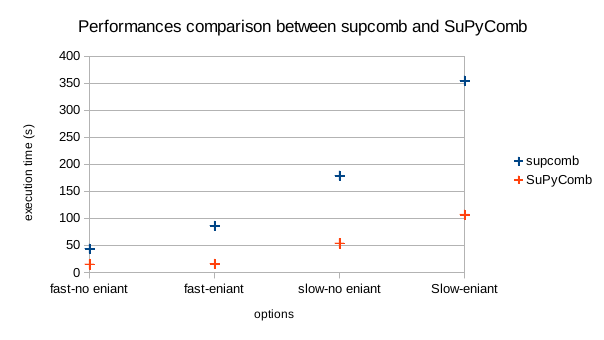
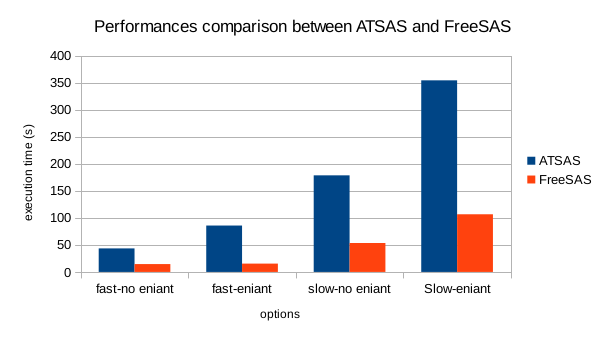
Last corrections from Jerome + changes in figures

diff --git a/bonamis_report.tex b/bonamis_report.tex
@@ -64,7 +64,8 @@
 I would like to thank my supervisor J\'er\^ome Kieffer for his help 
 and his teaching all along my traineeship at the ESRF, my university 
 tutor Emeline Dudognon for the time she spend to help me for my 
-traineeship, Claudio Ferrero, head of ESRF Data Analysis Unit, for the 
+traineeship, the BM29 staff and especially Martha Brennich and Adam 
+Round, Claudio Ferrero, head of ESRF Data Analysis Unit, for the 
 revision of this report, Pierre Paleo, Thomas Vincent and Frederic 
 Sulzmann for the numerous pieces of advice they gave me.
 
@@ -145,7 +146,7 @@ The global data-analysis process can be divided in four steps:
  \item azimuthal integration of the image
  \item background correction (scattering from the sample buffer)
  \item basic analysis of the scattering curves
- \item ab initio modeling
+ \item \textit{ab initio} modeling
 \end{itemize}
 
 \begin{figure}
@@ -176,14 +177,14 @@ from the \textsc{atsas} package \cite{atsas}.
 The EDNA analysis pipeline generates automatically Guinier and Kratky
 plots for visual analysis of the scattering signal.\\
 
-The fourth step of the data analysis is the ab initio modeling, 
+The fourth step of the data analysis is the \textit{ab initio} modeling, 
 presented in the following section, which is the core of the subject.
 
-\section{Ab initio modeling}
+\section{\textit{Ab initio} modeling}
 \label{modeling}                           %flag pour citer cette section
 
-Ab initio modeling aims at building a low-resolution 3-D model of the 
-macromolecule of interest. 
+\textit{Ab initio} modeling aims at building a low-resolution 3-D 
+model of the macromolecule of interest. 
 BM29 staff uses for this other tools from the \textsc{atsas} package 
 as follows.\\
 
@@ -239,8 +240,9 @@ integration into the pipeline, a Python library could be advantageous.
 \item programs from this package are closed source and 
 changing from version to version add difficulties to the process of 
 their integration into the pipeline. 
-\item the execution time of these programs causes the ab initio 
-modeling to be the bottleneck of the BM29 pipeline. 
+\item the execution time of these programs causes the 
+  \textit{ab initio} modeling to be the bottleneck of the BM29 
+  pipeline. 
 \item sometimes the whole EDNA pipeline needs to be aborted 
 due to \textit{dammin}, not returning results after half an hour.
 \end{enumerate}
@@ -274,13 +276,14 @@ We will use this protein all along the report for examples,
 presentation of results and code performances. 
 This protein is very common in biology and simple to study. 
 In particular, it is present in egg white. 
-The scattering curve of lysozyme comes from \textsc{atsas}, which uses 
-it for test purposes (figure~\ref{fgr:saxscurve}).
+The scattering curve of lysozyme comes from the \textsc{atsas} test 
+suite, which uses it for test purposes (figure~\ref{fgr:saxscurve}).
 
 \begin{figure}
 \centering
-\includegraphics[scale=0.45]{saxscurve.png}
-\caption{SAXS curve of the lysozyme protein provided in \textsc{atsas}}
+\includegraphics[scale=0.40]{saxscurve.png}
+\caption{SAXS curve of the lysozyme protein provided by the 
+  \textsc{atsas} test suite}
 \label{fgr:saxscurve}
 \end{figure}
 
@@ -326,14 +329,12 @@ of the model on the experimental data ($\chi^2$ and $R$-value).
 These numbers represent the quality of the model and are calculated 
 using the difference between the actual SAXS curve and the simulated 
 one. 
-These quality factors are used used to reject models badly reproducing 
+These quality factors are used to reject models badly reproducing 
 experimental data.
 
-The second piece of information to retrieve are the dummy atoms 
-coordinates. 
-These are not actual atoms, but they indicate that there is some 
-material (the macromolecule) in their positions, and where there are 
-no dummy atoms, it is solvent. 
+The dummy atoms are not actual atoms, but they indicate that there is 
+some material (the macromolecule) in their positions, and where there 
+are no dummy atoms, it is solvent. 
 Typical DAM used in this project had 500 dummy atoms (order of 
 magnitude). 
 The parser written was dedicated to the following task: read the PDB 
@@ -442,7 +443,7 @@ z_{k}^0 = \frac{1}{N_{k}} \cdot \sum\limits_{i=1}^{N_{k}} z_{ik}
 \]\\
 The canonical translation to send the model $S_{k}$ to the coordinates' 
 origin is calculated with $(-x_{k}^0,\ -y_{k}^0,\ -z_{k}^0)$ vector to 
-obtain the $4 \time 4$ canonical translation matrix of $S_{k}$: 
+obtain the $4 \times 4$ canonical translation matrix of $S_{k}$: 
 $T_{k}^0$.
 
 With both models translated to their center of mass, the NSD between 
@@ -485,7 +486,7 @@ we have, with $\delta_{ij}$ the Kronecker delta,
 \]\\
 It appears that the $I_{k}$ tensor is symmetric real, hence we know 
 that it can be diagonalized; we can compute its three eigenvalues 
-$\lambda_{k1} \geq \lambda_{k2} \geq \lambda_{k3}$ and the three 
+$\lambda_{k1} \leq \lambda_{k2} \leq \lambda_{k3}$ and the three 
 eigenvectors corresponding $v_{k1},\ v_{k2},\ v_{k3}$. 
 We can create a rotation matrix composed by the eigenvectors of 
 $I_{k}$, arranged in columns and sorted in increasing order of the 
@@ -493,7 +494,7 @@ associated eigenvalues.
 If this matrix is named $M_{k}$, its transposed $[M_{k}]^T$ is the 
 rotation matrix which align $S_{k}$ axes of inertia along the 
 coordinates axes \cite{supcomb}, i.e. the one we are looking for 
-($4 \time 4$ rotation matrix).
+($4 \times 4$ rotation matrix).
 
 Including the canonical rotations for each models to the process, we 
 obtain a NSD value between the two DAM of $0.60$ (before it was 
@@ -747,7 +748,9 @@ returns the two graphs presented in figure~\ref{fgr:nsd}.
 \centering
 \includegraphics[scale=0.45]{nsd.png}
 \caption{Two graphs computed by \textit{SuPyComb}, the NSD table and 
-         for each model the average NSD with all the others}
+         for each model the average NSD with all the others. The DAM 
+         called "model-XX" are respectively the DAM "dammif-XX" after 
+         their alignment.}
 \label{fgr:nsd}
 \end{figure}
 The $16 \times 16$ NSD table reports the distances between each pair 
@@ -795,7 +798,7 @@ EDNA' runs.
 The execution time of \textit{SuPyComb} is also a great advantage 
 compared to \textit{supcomb}. 
 Some tests have been performed to compare execution times with several 
-options of both programs (always with the same Lysozyme SAXS curve). 
+options of both programs (always with the same lysozyme SAXS curve). 
 Results are presented in the appendix~\ref{perfappendix}.
 
 In addition to these advantages the Python implementation of SuPyComb 
@@ -829,9 +832,9 @@ difficulties found in the integration of \textit{supcomb} into EDNA.
 Moreover, its execution speed improves the computing performance of 
 the EDNA pipeline.\\
 
-As FreeSAS has not been created only for this task the package will be 
-further developed to provide new tools able to replace other 
-problematic \textsc{atsas}' modules as \textit{dammin}.
+While SuPyComb is the first part of FreeSAS, FreeSAS aims at hosting 
+new tools able to replace some of the \textsc{atsas} programs as 
+"drop-in" replacemen, with the advantage of a very permissive license.
 
 
 \newpage                 %ne pas enlever (numerotation pour sommaire)
@@ -900,7 +903,7 @@ that it is not obvious.
 Some tests have been performed to compare in the same situations the 
 different execution times of both \textsc{atsas}' supcomb and FreeSAS' 
 SuPyComb. 
-These execution times have been computed with Scisoft12, a computer 
+These execution times have been computed on a server 
 fitted with two processors Intel(R) Xeon(R) CPU E5-2667 0 @ 2.90GHz, 
 six cores each.
 
@@ -911,10 +914,10 @@ atoms each; and with the second one, 16 models of nearly 3050 dummy
 atoms. 
 Supcomb and SuPyComb are tested with four combinations of two options: 
 \begin{itemize}
-\item fast mode - enantiomorphs not allowed
-\item fast mode - enantiomorphs allowed
-\item slow mode - enantiomorphs not allowed
-\item slow mode - enantiomorphs allowed
+\item fast mode - without enantiomorphs search
+\item fast mode - with enantiomorphs search
+\item slow mode - without enantiomorphs search
+\item slow mode - with enantiomorphs search
 \end{itemize}
 
 Results from dammif models in fast mode are presented in 
@@ -926,14 +929,16 @@ execution time, even if it is doing other thing that supcomb
 
 \begin{figure}
 \includegraphics[scale=0.8]{perfdamfast.png}
-\caption{Execution time of supcomb and SuPyComb with several option 
-  for dammif fast mode (515 dummy atoms)}
+\caption{Execution time of supcomb from \textsc{atsas} and SuPyComb 
+  from FreeSAS with several option for dammif fast mode (515 dummy 
+  atoms)}
 \label{fgr:perfdamfast}
 \end{figure} \vfill
 \begin{figure}
 \includegraphics[scale=0.8]{perfdamslow.png}
-\caption{Execution time of supcomb and SuPyComb with several option 
-  for dammif slow mode (3050 dummy atoms)}
+\caption{Execution time of supcomb from \textsc{atsas} and SuPyComb 
+  from FreeSAS with several option for dammif slow mode (3050 dummy 
+  atoms)}
 \label{fgr:perfdamslow}
 \end{figure}
 
